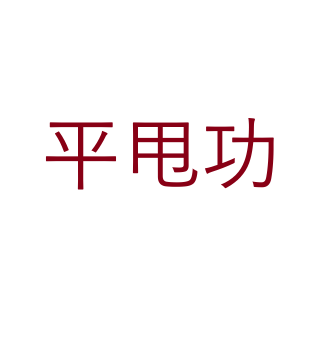
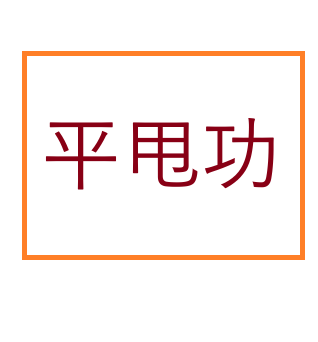
add pingshuai

Changed region(s): [[0.0566, 0.1462, 0.9623, 0.7602]]

diff --git a/app/routes/pingshuai.ts b/app/routes/pingshuai.ts
@@ -1,0 +1,35 @@
+import express, { Request, Response, NextFunction } from 'express';
+import { exec } from 'child_process';
+
+const router = express.Router();
+
+/* GET users listing. */
+router.get('/', (req: Request, res: Response, next: NextFunction) => {
+  exec('Start "C:\\dvlp\\cctv\\cmd\\ps1\\pingshuai.ps1" ', {'shell':'powershell.exe'}, (error, stdout, stderr)=> {
+    res.send(`
+      <html>
+      
+      <head>
+        <title>平甩</title>
+        <link rel="stylesheet" href="/stylesheets/style.css">
+        <link rel="icon" href="breath.png" type="image/x-icon"/>
+      </head>
+      
+      <body>
+        <div id="spinner" class="spinner"></div>
+        <script>
+          window.onload = function() {
+            setTimeout(() => {
+              window.location.href = 'index.html';
+            }, 5000); 
+          };
+        </script>
+        <h1 style="color: rgb(255, 0, 0)">平甩</h1>
+        <img src="/pingshuai.png" />
+      </body>
+      </html>
+          `);
+        })
+});
+
+export default router;

diff --git a/app/app.ts b/app/app.ts
@@ -11,6 +11,7 @@ import rebootRouter from './routes/reboot';
 import shutdownRouter from './routes/shutdown';
 import cctv4Router from './routes/cctv4';
 import breathRouter from './routes/breath';
+import pingshuaiRouter from './routes/pingshuai';
 import fhtvRouter from './routes/fhtv';
 import zoomRouter from './routes/zoom';
 import tvbRouter from './routes/tvb';
@@ -34,6 +35,7 @@ app.use('/shutdown', shutdownRouter);
 app.use('/zoom', zoomRouter);
 app.use('/cctv4', cctv4Router);
 app.use('/breath', breathRouter);
+app.use('/pingshuai', pingshuaiRouter)
 app.use('/fhtv', fhtvRouter);
 app.use('/tvb', tvbRouter);
 app.use('/daai', daaiRouter);

diff --git a/app/public/index.html b/app/public/index.html
@@ -14,9 +14,12 @@
           <img src="cctv.png" alt="中央">
       </a>
       <a href="/breath" class="image-link">
-        <img src="breath.png" alt="中央">
-    </a>
-</div>
+        <img src="breath.png" alt="breath">
+      </a>
+      <a href="/pingshuai" class="image-link">
+        <img src="pingshuai.png" alt="pingshuai">
+      </a>  
+  </div>
 </body>
 
 </html>
